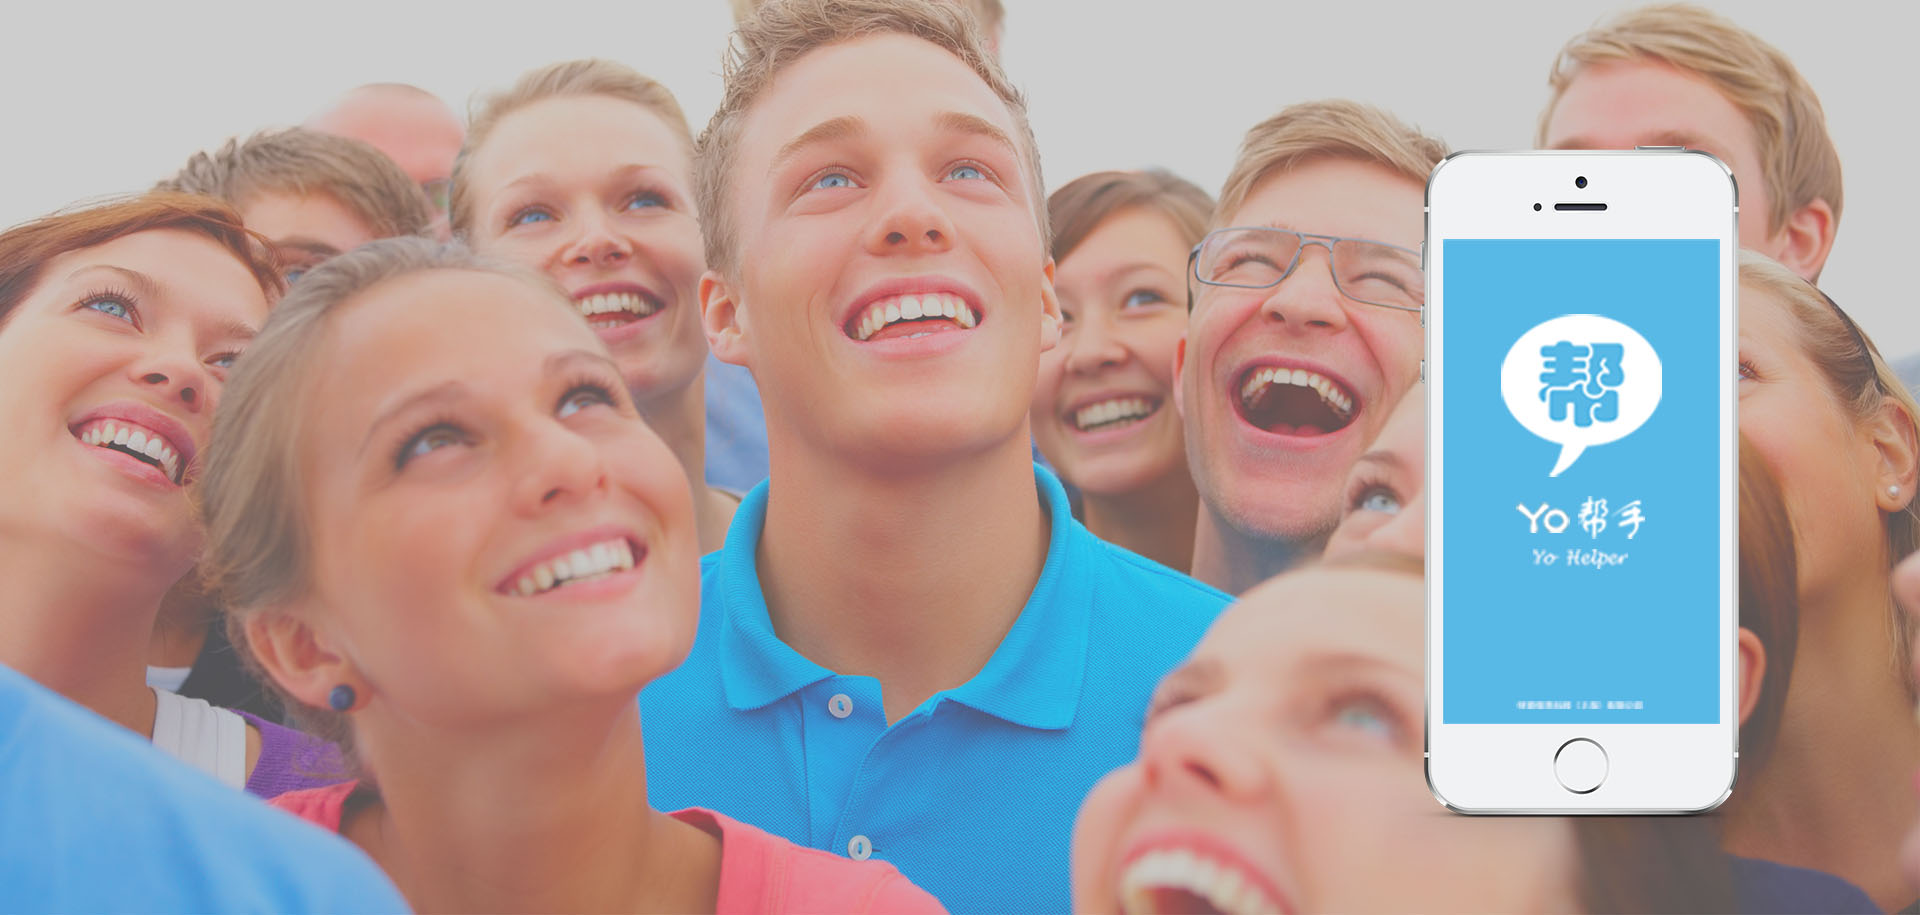
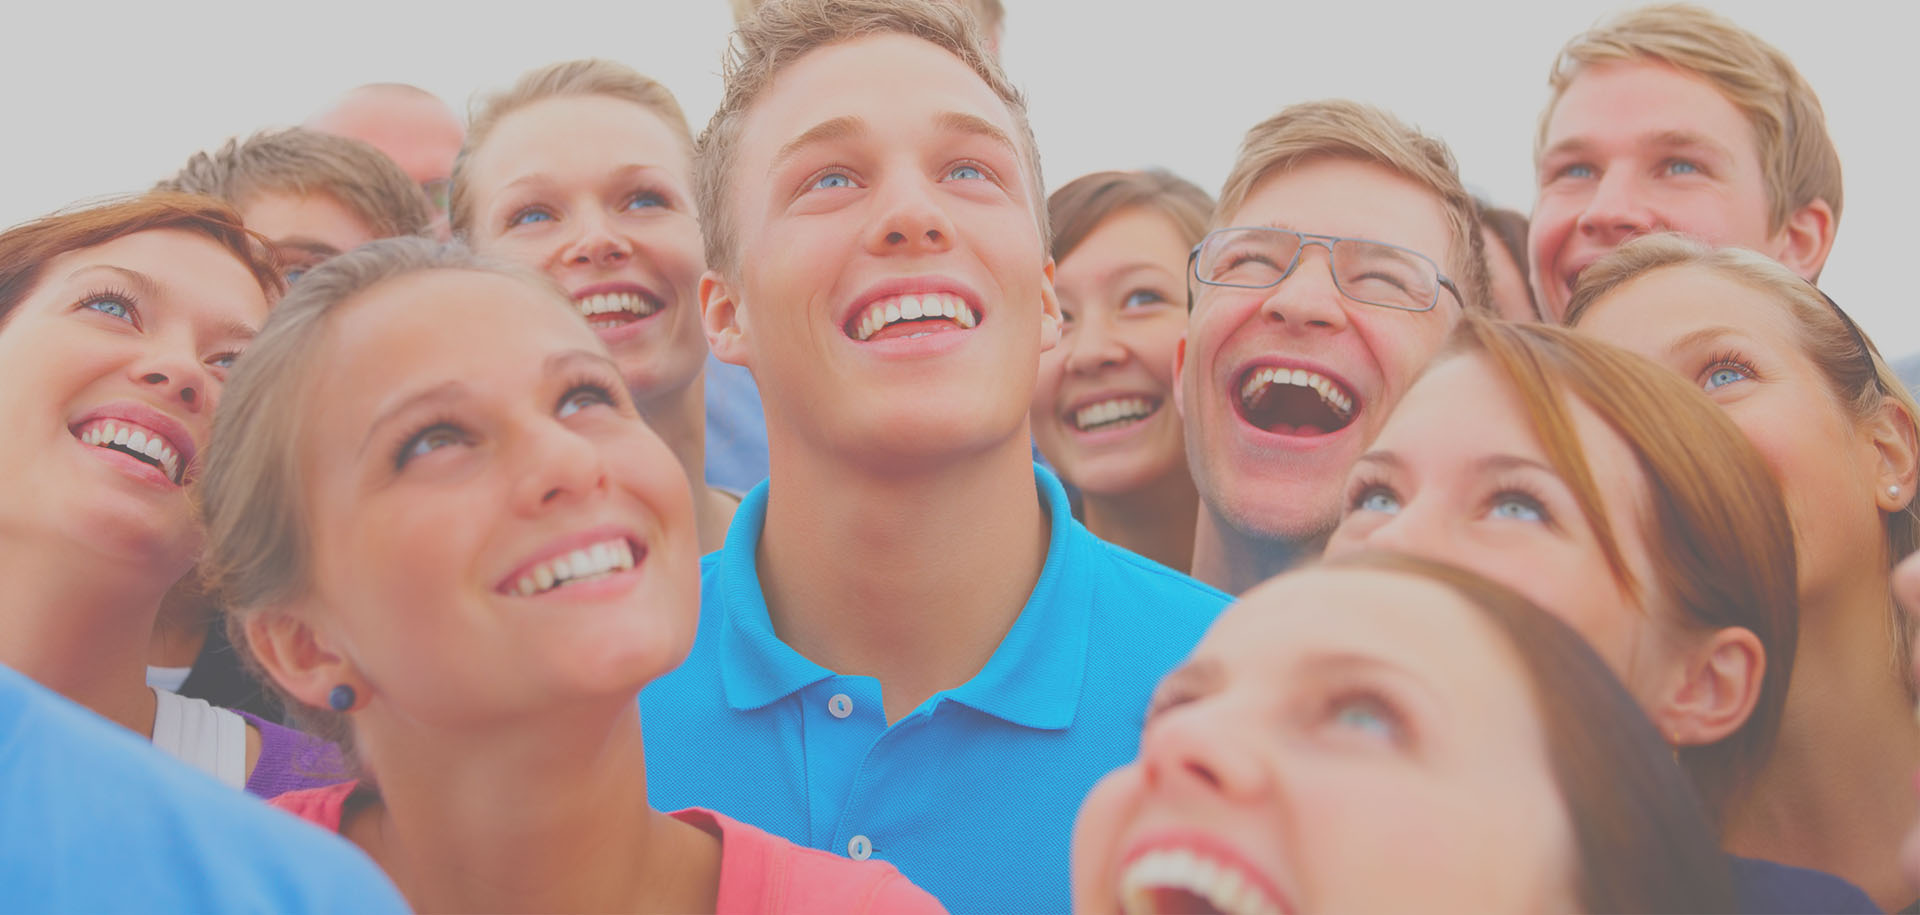
optimization

Changed region(s): [[0.7188, 0.153, 0.9062, 0.918]]

diff --git a/public/css/home.css b/public/css/home.css
@@ -1,15 +1,15 @@
 body {
 
-	font-family: 'Helvetica Neue', Helvetica, Arial, Verdana, sans-serif;
+	font-family: 'Helvetica Neue', Helvetica,'黑体', Arial, Verdana, sans-serif;
 	-webkit-font-smoothing: antialiased;
 }
 
-.spacer{
+/*.spacer{
 	display:block;
 	z-index:-1;
 	height:700px;
 	position:relative;
-}
+}*/
 .block {
 	background-color: #FFFFFF;
 	position: relative;
@@ -49,8 +49,26 @@ body {
 
 		padding: 20px;
 	}
+
+.preview{
+	position: absolute;
+	right: 4%;
+	top: 10%;
+	width: 320px;
+}
+.preview img {
+	max-width: 100%;
+}
+@media (max-width:768px){
+	.preview img {
+		display:none;
+	}
+}
 /*}*/
 @media (max-width:768px){
+	/*.preview img {
+		display:none;
+	}*/
 	.intro {
 		background-image:url("/img/home-bg-mobile.png");
 		/*z-index: 2;*/
@@ -62,17 +80,48 @@ body {
 	background-size: cover;
 }
 .features h2, .features h3 { color: #333; }
-.features h4 { color: #666; }
+.features h4 {
+	color: #666;
+	font-size:20px;
+	text-align:center;
+}
 .features > .container {
 	/*max-width:700px;*/
 }
+.features .col-md-4{
+	padding-left: 32px;
+	padding-right:32px;
+}
 .feature {
 	background-color: rgba(234, 232, 225, 0.88);
-	height: 300px;
-	padding: 60px 20px;
+	height: 250px;
+	padding: 60px 30px;
 	border-radius: 4px;
+	margin: 20px 0;
+	-webkit-box-shadow: rgba(197, 191, 191, 0.8) 0px 1px 10px;
+	-moz-box-shadow: rgba(197, 191, 191, 0.8) 0px 1px 10px;
+	box-shadow: rgba(197, 191, 191, 0.8) 0px 1px 10px;
 }
-
+.tip {
+	width: 180px;
+	height: 50px;
+	background-color: #3dafe1;
+	/*-webkit-box-shadow: rgba(51,155,217,0.5) 0px 1px 10px;
+	-moz-box-shadow: rgba(51,155,217,0.5) 0px 1px 10px;
+	box-shadow: rgba(51,155,217,0.5) 0px 1px 10px;*/
+	border-bottom: 2px solid #339bd9;
+	text-align:center;
+	border-radius: 5px;
+	/*margin: 20px auto;
+	margin-bottom: -20px;*/
+	position: absolute;
+	bottom: -10px;
+	left: 70px;
+	color: #fff;
+	font-weight:bold;
+	font-size:28px;
+	padding: 3px;
+}
 .bottom-line { background-color: #F2F2F2; }
 .bottom-line img {
 	max-width:100%;
@@ -110,12 +159,19 @@ body {
 	font-size: 20px;
 }
 #ios {
-	background-image:url("/img/ios.png")
+	background-image:url("/img/ios.png");
+	/*font-weight: bold;*/
+}
+#ios:hover {
+	color: rgba(0, 138, 208, 0.9);
+}
+#android:hover {
+	color: rgba(59, 179, 83, 0.93);
 }
 @media (min-width: 768px) {
 	.block .logo{
 		text-align: left;
-		padding-left: 10%;
+		padding-left: 3%;
 		color: #fff;
 	}
 
@@ -132,10 +188,15 @@ body {
 		text-align:left;
 		color: #fff;
 		padding-left: 10%;
+		/*margin-right:50px;*/
 	}
 	.download {
 		display: inline-block;
-		margin: 100px 40px;
+		margin: 50px 0px;
+		margin-right:50px;
+		margin-top: 150px;
+		/*position: absolute;
+		bottom: 20%;*/
 	}
 
 }
@@ -144,17 +205,17 @@ body {
 }
 .scroll-down {
 	position: absolute;
-	bottom: 10%;
+	bottom: 4%;
 	left: 48%;
 	text-align: center;
 	height: 60px;
 	width: 60px;
 	font-size: 50px;
 	display: block;
-	color: #cecece;
+	color: #E4E4E4;
 }
 .scroll-down:hover{
-	color: #cd435b;
+	color: #ffffff;
 }
 .navbar-default .navbar-nav > li > a, .navbar-brand{
 	color: #5e5e5e;
